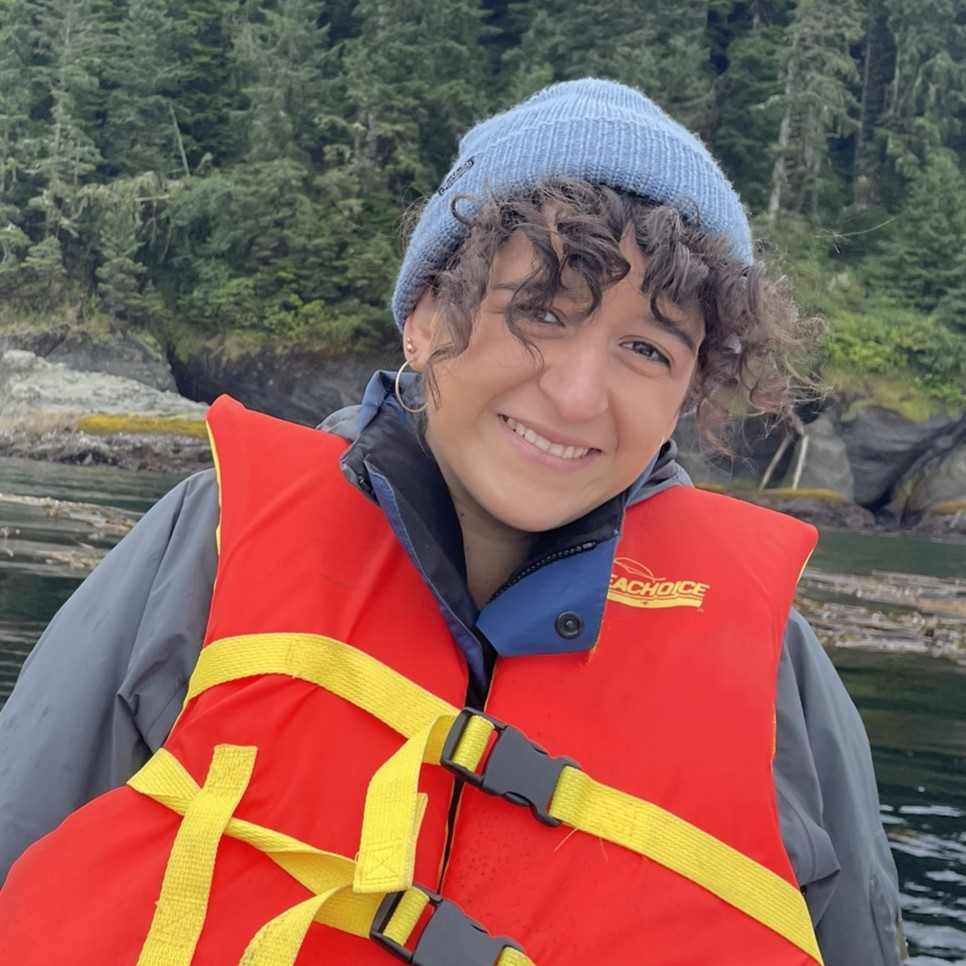
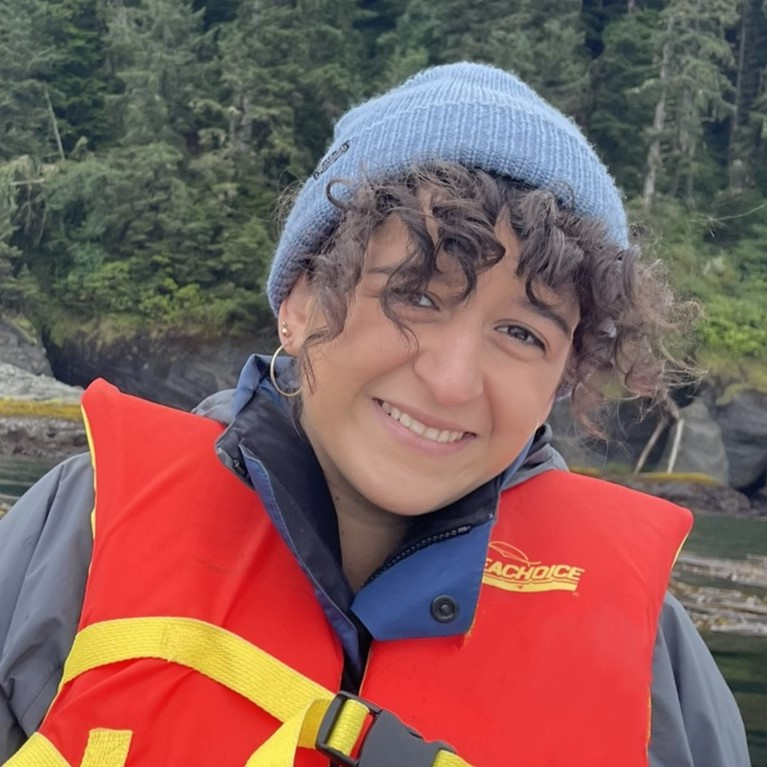
profile pic change

diff --git a/index.html b/index.html
@@ -39,7 +39,7 @@
 							<h2>ANDREA MUÑOZ LEDO FARRÉ</h2>
 							<p>Research Scientist with a varied background in Marine, Soil, and Fire Ecology</p>
 					</div>
-					<img src="images/andrea_profile1.jpg" class="profile-image" />
+					<img src="images/andrea_profile2.jpg" class="profile-image" />
 				</section>
 				
 			<!-- Main -->
